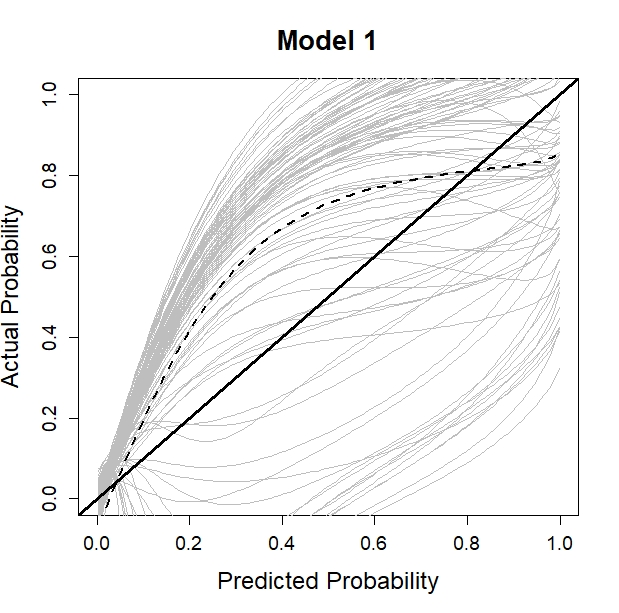
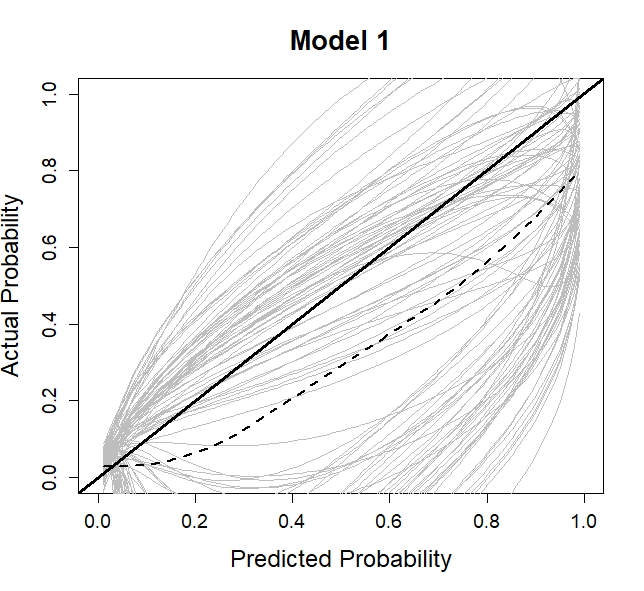
New calibration curves and cross validation

diff --git a/about.html b/about.html
@@ -381,36 +381,22 @@ div.tocify {
 
 <p>The pbc2 and pbc2.id data sets are used from the <code>JMbayes</code> package in <code>R</code>. The long format data set is called <code>pbc2</code>:</p>
 <pre class="r"><code>head(pbc2)</code></pre>
-<pre><code>  id    years status      drug      age    sex      year ascites hepatomegaly spiders                   edema serBilir serChol albumin alkaline  SGOT platelets
-1  1  1.09517   dead D-penicil 58.76684 female 0.0000000     Yes          Yes     Yes edema despite diuretics     14.5     261    2.60     1718 138.0       190
-2  1  1.09517   dead D-penicil 58.76684 female 0.5256817     Yes          Yes     Yes edema despite diuretics     21.3      NA    2.94     1612   6.2       183
-3  2 14.15234  alive D-penicil 56.44782 female 0.0000000      No          Yes     Yes                No edema      1.1     302    4.14     7395 113.5       221
-4  2 14.15234  alive D-penicil 56.44782 female 0.4983025      No          Yes     Yes                No edema      0.8      NA    3.60     2107 139.5       188
-5  2 14.15234  alive D-penicil 56.44782 female 0.9993429      No          Yes     Yes                No edema      1.0      NA    3.55     1711 144.2       161
-6  2 14.15234  alive D-penicil 56.44782 female 2.1027270      No          Yes     Yes                No edema      1.9      NA    3.92     1365 144.2       122
-  prothrombin histologic status2 fitted_linear fitted_nonlinear
-1        12.2          4       1    14.6150217       14.3736831
-2        11.2          4       1    17.3543233       18.7686245
-3        10.6          3       0     0.9071723        0.9303952
-4        11.0          3       0     1.1124464        1.0888813
-5        11.6          3       0     1.3188483        1.2586718
-6        10.6          3       0     1.7733837        1.6945687</code></pre>
+<pre><code>  id    years status      drug      age    sex      year ascites hepatomegaly spiders                   edema serBilir serChol albumin alkaline  SGOT platelets prothrombin histologic status2
+1  1  1.09517   dead D-penicil 58.76684 female 0.0000000     Yes          Yes     Yes edema despite diuretics     14.5     261    2.60     1718 138.0       190        12.2          4       1
+2  1  1.09517   dead D-penicil 58.76684 female 0.5256817     Yes          Yes     Yes edema despite diuretics     21.3      NA    2.94     1612   6.2       183        11.2          4       1
+3  2 14.15234  alive D-penicil 56.44782 female 0.0000000      No          Yes     Yes                No edema      1.1     302    4.14     7395 113.5       221        10.6          3       0
+4  2 14.15234  alive D-penicil 56.44782 female 0.4983025      No          Yes     Yes                No edema      0.8      NA    3.60     2107 139.5       188        11.0          3       0
+5  2 14.15234  alive D-penicil 56.44782 female 0.9993429      No          Yes     Yes                No edema      1.0      NA    3.55     1711 144.2       161        11.6          3       0
+6  2 14.15234  alive D-penicil 56.44782 female 2.1027270      No          Yes     Yes                No edema      1.9      NA    3.92     1365 144.2       122        10.6          3       0</code></pre>
 <p>The wide format data set is called <code>pbc2.id</code>.</p>
 <pre class="r"><code>head(pbc2.id)</code></pre>
-<pre><code>  id     years       status      drug      age    sex year ascites hepatomegaly spiders                   edema serBilir serChol albumin alkaline  SGOT platelets
-1  1  1.095170         dead D-penicil 58.76684 female    0     Yes          Yes     Yes edema despite diuretics     14.5     261    2.60     1718 138.0       190
-2  2 14.152338        alive D-penicil 56.44782 female    0      No          Yes     Yes                No edema      1.1     302    4.14     7395 113.5       221
-3  3  2.770781         dead D-penicil 70.07447   male    0      No           No      No      edema no diuretics      1.4     176    3.48      516  96.1       151
-4  4  5.270507         dead D-penicil 54.74209 female    0      No          Yes     Yes      edema no diuretics      1.8     244    2.54     6122  60.6       183
-5  5  4.120578 transplanted   placebo 38.10645 female    0      No          Yes     Yes                No edema      3.4     279    3.53      671 113.2       136
-6  6  6.853028         dead   placebo 66.26054 female    0      No          Yes      No                No edema      0.8     248    3.98      944  93.0        NA
-  prothrombin histologic status2
-1        12.2          4       1
-2        10.6          3       0
-3        12.0          4       1
-4        10.3          4       1
-5        10.9          3       0
-6        11.0          3       1</code></pre>
+<pre><code>   id     years       status      drug      age    sex year ascites hepatomegaly spiders                   edema serBilir serChol albumin alkaline  SGOT platelets prothrombin histologic status2
+1   1  1.095170         dead D-penicil 58.76684 female    0     Yes          Yes     Yes edema despite diuretics     14.5     261    2.60     1718 138.0       190        12.2          4       1
+3   2 14.152338        alive D-penicil 56.44782 female    0      No          Yes     Yes                No edema      1.1     302    4.14     7395 113.5       221        10.6          3       0
+12  3  2.770781         dead D-penicil 70.07447   male    0      No           No      No      edema no diuretics      1.4     176    3.48      516  96.1       151        12.0          4       1
+16  4  5.270507         dead D-penicil 54.74209 female    0      No          Yes     Yes      edema no diuretics      1.8     244    2.54     6122  60.6       183        10.3          4       1
+23  5  4.120578 transplanted   placebo 38.10645 female    0      No          Yes     Yes                No edema      3.4     279    3.53      671 113.2       136        10.9          3       0
+29  6  6.853028         dead   placebo 66.26054 female    0      No          Yes      No                No edema      0.8     248    3.98      944  93.0        NA        11.0          3       1</code></pre>
 <div id="longitudinal-outcome" class="section level1">
 <h1>Longitudinal outcome</h1>
 <pre class="r"><code>p1 &lt;- xyplot(log(serBilir) ~ year, groups = id, 
@@ -468,9 +454,7 @@ xyplot(serBilir ~ year | id, data = newdata, pch = 20,
                      col = &quot;blue&quot;, lwd = 4, lty = 2)
 })</code></pre>
 <p><img src="about_files/figure-html/unnamed-chunk-4-1.png" width="672" /></p>
-</div>
-<div id="survival-outcome" class="section level1">
-<h1>Survival outcome</h1>
+<p>re# Survival outcome</p>
 <pre class="r"><code>fit &lt;- survfit(Surv(years, status2) ~ 1, data = pbc2.id)
 ggsurvplot(fit, data = pbc2.id, risk.table = TRUE, palette = &quot;black&quot;, legend = &quot;none&quot;)</code></pre>
 <p><img src="about_files/figure-html/unnamed-chunk-5-1.png" width="672" /></p>

diff --git a/functions.html b/functions.html
@@ -384,7 +384,7 @@ div.tocify {
 <p>Function for the calibration curve for the univariate joint model:</p>
 <pre class="r"><code>calJM &lt;- function(object, newdata, Tstart, Thoriz, idVar = &quot;id&quot;, 
                   simulate = FALSE, M = 100, pl = TRUE, 
-                  include.cens = TRUE, ...) {
+                  include.cens = FALSE, ...) {
   if (!inherits(object, &quot;JMbayes&quot;)) 
     stop(&quot;Use only with &#39;JMbayes&#39; objects.\n&quot;)
   if (!is.data.frame(newdata) || nrow(newdata) == 0) 
@@ -480,7 +480,7 @@ div.tocify {
   newdata.id &lt;- newdata[tapply(row.names(newdata), newdata$id, tail, 1), ]
   
   statusCens &lt;- rbinom(n = length(weights), size = 1, prob = weights)
-  matCens &lt;- data.frame(years = newdata.id$years[newdata.id$id %in% names(Surv.censThoriz)], pred_prob = Surv.censThoriz, status = statusCens)
+  matCens &lt;- data.frame(years = newdata.id$years[newdata.id$id %in% names(Surv.censThoriz)], pred_prob = 1 - Surv.censThoriz, status = 1 - statusCens)
   
   # New part for calibration plot
   matDead &lt;- data.frame(years = newdata.id$years[newdata.id$id %in% names(Surv.deadThoriz)], pred_prob = 1 - Surv.deadThoriz, status = 1)
@@ -500,8 +500,8 @@ div.tocify {
                          data = mat) 
   # Based on the fitted model, an estimated probability of the occurrence of the
   #  outcome prior to time t_0 can be estimated for each value of pred
-  predict.grid.cox &lt;- seq(quantile(mat$pred_prob, probs = 0.01),
-                          quantile(mat$pred_prob, probs = 0.99), length  = 100)
+  predict.grid.cox &lt;- seq(0.01,
+                          0.99, length  = 100)
   predict.grid.cox.cll &lt;- log(-log(1 - predict.grid.cox))
   
   predict.grid.cox.df &lt;- data.frame(predict.grid.cox)
@@ -532,7 +532,7 @@ div.tocify {
 <p>Function for the calibration curve for the multivariate joint model:</p>
 <pre class="r"><code>calJM.mv &lt;- function(object, newdata, Tstart, Thoriz, idVar = &quot;id&quot;, 
                   simulate = FALSE, M = 100, pl = TRUE, 
-                  include.cens = TRUE, ...) {
+                  include.cens = FALSE, ...) {
   if (!inherits(object, &quot;mvJMbayes&quot;))
     stop(&quot;Use only with &#39;mvJMbayes&#39; objects.\n&quot;)
   if (!is.data.frame(newdata) || nrow(newdata) == 0)
@@ -633,7 +633,7 @@ div.tocify {
   newdata.id &lt;- newdata[tapply(row.names(newdata), newdata$id, tail, 1), ]
   
   statusCens &lt;- rbinom(n = length(weights), size = 1, prob = weights)
-  matCens &lt;- data.frame(years = newdata.id$years[newdata.id$id %in% names(Surv.censThoriz)], pred_prob = Surv.censThoriz, status = statusCens)
+  matCens &lt;- data.frame(years = newdata.id$years[newdata.id$id %in% names(Surv.censThoriz)], pred_prob = 1 - Surv.censThoriz, status = 1 - statusCens)
   
   # New part for calibration plot
   matDead &lt;- data.frame(years = newdata.id$years[newdata.id$id %in% names(Surv.deadThoriz)], pred_prob = 1 - Surv.deadThoriz, status = 1)
@@ -655,8 +655,8 @@ div.tocify {
                          data = mat) 
   # Based on the fitted model, an estimated probability of the occurrence of the
   #  outcome prior to time t_0 can be estimated for each value of pred
-  predict.grid.cox &lt;- seq(quantile(mat$pred_prob, probs = 0.01),
-                          quantile(mat$pred_prob, probs = 0.99), length  = 100)
+  predict.grid.cox &lt;- seq(0.01,
+                          0.99, length  = 100)
   predict.grid.cox.cll &lt;- log(-log(1 - predict.grid.cox))
   
   predict.grid.cox.df &lt;- data.frame(predict.grid.cox)

diff --git a/index.html b/index.html
@@ -11,7 +11,7 @@
 
 <meta name="author" content="Eleni-Rosalina Andrinopoulou, Department of Biostatistics, Erasmus Medical Center" />
 
-<meta name="date" content="2020-10-13" />
+<meta name="date" content="2020-10-28" />
 
 <title>Dynamic prediction using joint models of longitudinal and time-to-event data</title>
 
@@ -379,7 +379,7 @@ div.tocify {
 
 <h1 class="title toc-ignore">Dynamic prediction using joint models of longitudinal and time-to-event data</h1>
 <h4 class="author">Eleni-Rosalina Andrinopoulou, Department of Biostatistics, Erasmus Medical Center</h4>
-<h4 class="date">13 October 2020</h4>
+<h4 class="date">28 October 2020</h4>
 
 </div>
 
@@ -657,17 +657,18 @@ for (i in 1:100) {
 pe_corr = pe_app$prederr + pe_opt
 cal_corr = lapply(cal_opt, function(x) {cal_app$y - x}) 
 
-cal_opt_means &lt;- colMeans(do.call(rbind, cal_opt))
-cal_corr_means &lt;- cal_app$y - cal_opt_means
+cal_corr_means &lt;- rowMeans(do.call(cbind, cal_corr), na.rm = TRUE)
 
 plot(0.5, 0.5, xlim = c(0,1), ylim = c(0,1), type = &quot;n&quot;, 
      xlab = &quot;Predicted Probability&quot;, 
      ylab = &quot;Actual Probability&quot;,
      main = &quot;Model 1&quot;,
      cex.axis = 1.2, cex.lab = 1.5, cex.main = 1.7)
+
 lapply(cal_corr, function(x) lines(cal_app$x, x, col =&quot;grey&quot;))
 abline(0, 1, lwd = 3, col = 1)
-lines(cal_app$x, cal_corr_means, col = 1, lwd = 2 , lty = 2)
+lo &lt;- loess(cal_corr_means ~ cal_app$x)
+lines(cal_app$x, predict(lo), col = 1, lwd = 2 , lty = 2)
 
 
 boxplot(auc_corr, ylab = &quot;AUC&quot;)
@@ -766,17 +767,18 @@ for (i in 1:100) {
 pe_corr = pe_app$prederr + pe_opt
 cal_corr = lapply(cal_opt, function(x) {cal_app$y - x}) 
 
-cal_opt_means &lt;- colMeans(do.call(rbind, cal_opt))
-cal_corr_means &lt;- cal_app$y - cal_opt_means
+cal_corr_means &lt;- rowMeans(do.call(cbind, cal_corr), na.rm = TRUE)
 
 plot(0.5, 0.5, xlim = c(0,1), ylim = c(0,1), type = &quot;n&quot;, 
      xlab = &quot;Predicted Probability&quot;, 
      ylab = &quot;Actual Probability&quot;,
-     main = &quot;Model 4&quot;,
+     main = &quot;Model 1&quot;,
      cex.axis = 1.2, cex.lab = 1.5, cex.main = 1.7)
+
 lapply(cal_corr, function(x) lines(cal_app$x, x, col =&quot;grey&quot;))
 abline(0, 1, lwd = 3, col = 1)
-lines(cal_app$x, cal_corr_means, col = 1, lwd = 2 , lty = 2)
+lo &lt;- loess(cal_corr_means ~ cal_app$x)
+lines(cal_app$x, predict(lo), col = 1, lwd = 2 , lty = 2)
 
 boxplot(auc_corr, ylab = &quot;AUC&quot;)
 
